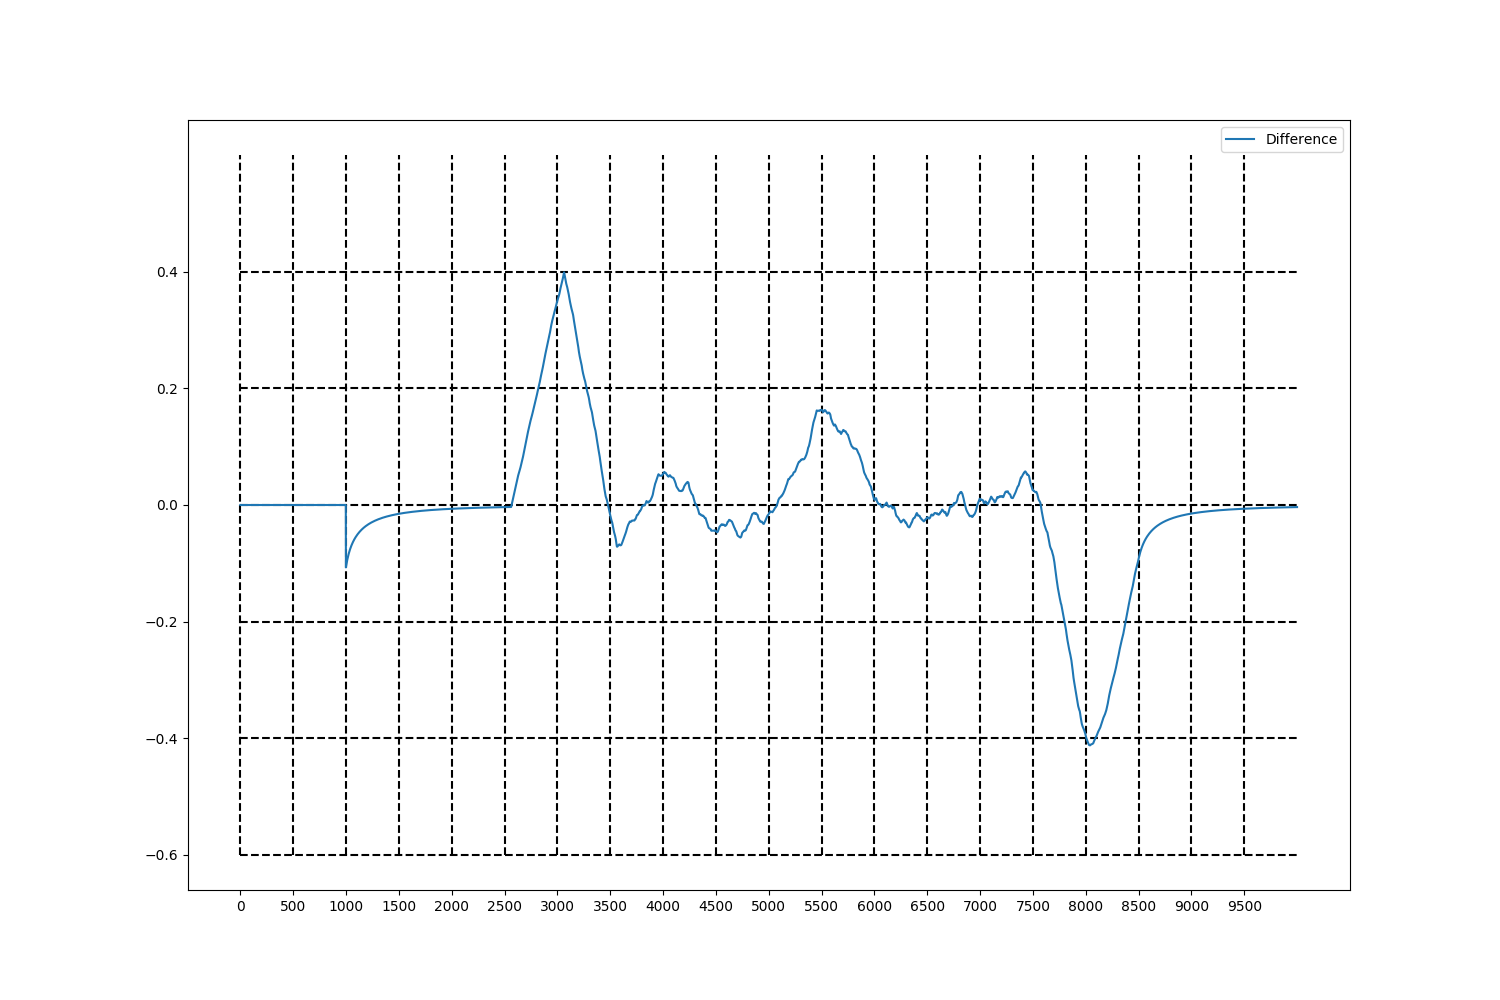
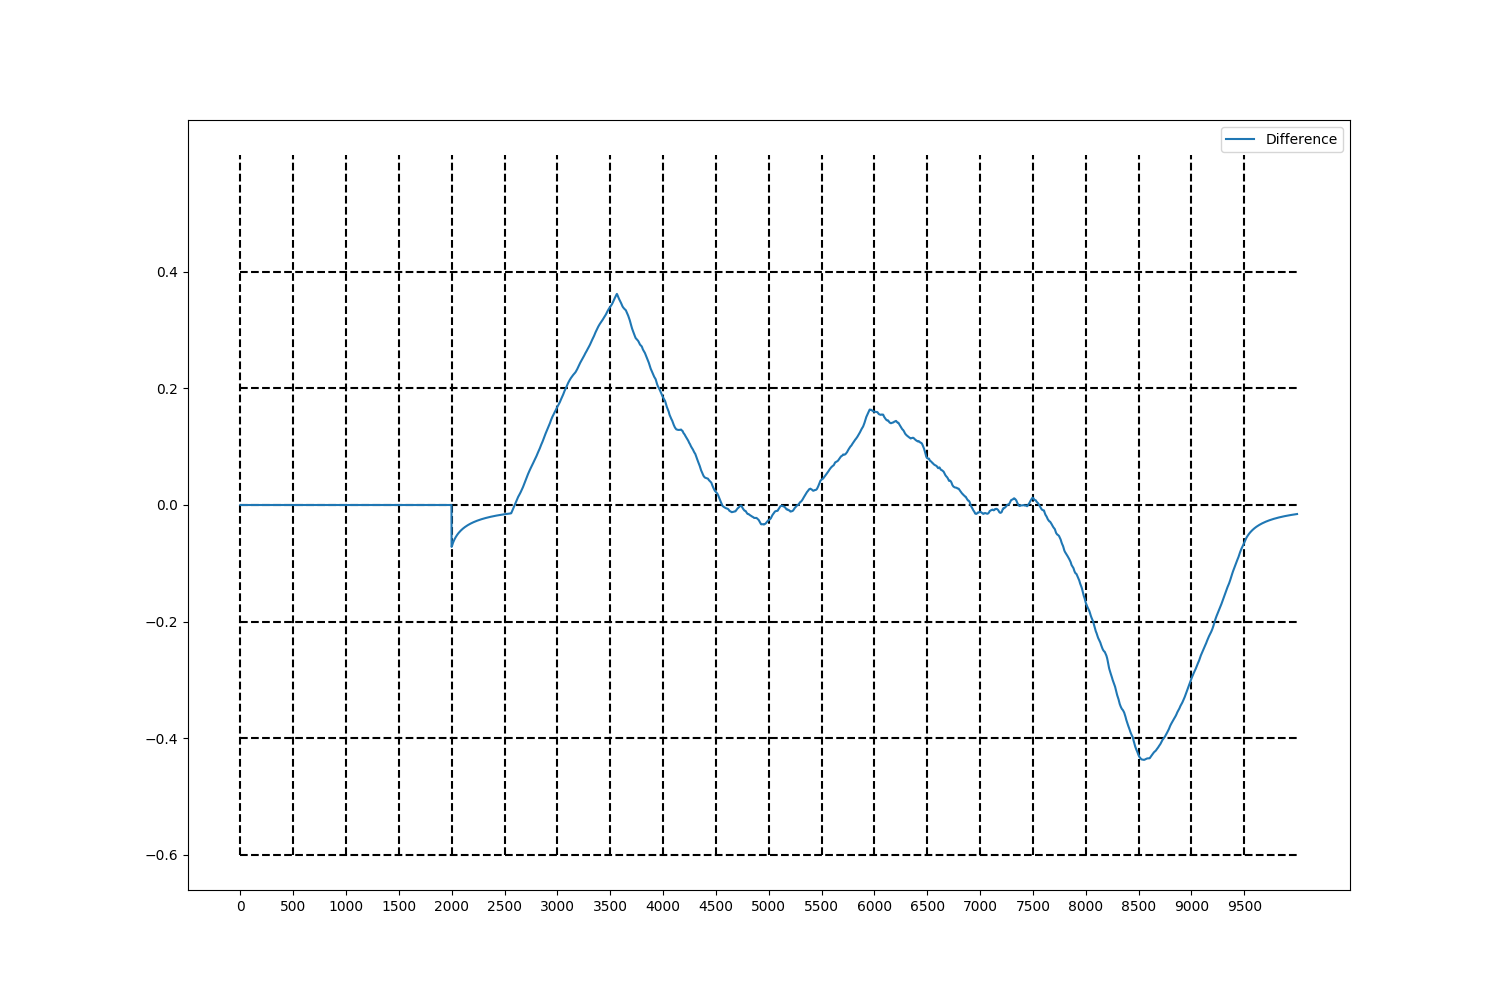
add

diff --git a/src/detect/EnvironmentChangeDetector.java b/src/detect/EnvironmentChangeDetector.java
@@ -394,6 +394,7 @@ public class EnvironmentChangeDetector {
     }
     
     public void detect8(List<ActionSet> sets) {
+        int WINDOW = 1000;
         this.traces = sets;
         int count = 1;
         List<double[]> recent_sgds_list = new ArrayList<>();
@@ -402,7 +403,7 @@ public class EnvironmentChangeDetector {
             len += rule.getPostConditions().size();
         }
         for (int i = 0; i < len; i++) {
-            recent_sgds_list.add(new double[500*2]);
+            recent_sgds_list.add(new double[WINDOW*2]);
         }
         List<String> lines = new ArrayList<>();
         List<Double> differences = new ArrayList<>();
@@ -419,12 +420,12 @@ public class EnvironmentChangeDetector {
                     double value_SGD = post.getValue();
                     //double value_GD = getValueOfNthPostCondition(rules_GD, index_);
                     recent_sgds_list.set(index_, replaceArray(recent_sgds_list.get(index_), value_SGD));
-                    double averageFirstHarf = calculateAverage(recent_sgds_list.get(index_), 0, 500);
-                    double averageSecondHarf = calculateAverage(recent_sgds_list.get(index_), 500, 500*2);
+                    double averageFirstHarf = calculateAverage(recent_sgds_list.get(index_), 0, WINDOW);
+                    double averageSecondHarf = calculateAverage(recent_sgds_list.get(index_), WINDOW, WINDOW*2);
                     if (rule.getPreConditionName().equals("arrive.m") && rule.getActionName().equals("move.e")
                             && post.getName().equals("arrive.e")) {
                         lines.add(count+", "+averageFirstHarf+", "+averageSecondHarf);
-                        if (count <= 500*2) {
+                        if (count <= WINDOW*2) {
                             differences.add(0.0);
                         } else {
                             differences.add(averageFirstHarf-averageSecondHarf);

diff --git a/src/model/hybrid/HybridModelUpdator.java b/src/model/hybrid/HybridModelUpdator.java
@@ -60,7 +60,8 @@ public class HybridModelUpdator {
             */
             if (shift_point == i) {
                 // GD learning
-                for (int j = 0; j < 1; j++) {
+                int NUMBER_OF_GD_LEARNING = 100;
+                for (int j = 0; j < NUMBER_OF_GD_LEARNING; j++) {
                     i++;
                     List<ActionSet> targetTraces = getLearningTargetTraces(i);
                     rules = GradientDescent.getUpdatedRules(rules, targetTraces);

diff --git a/python/ex4-2.py b/python/ex4-2.py
@@ -23,8 +23,8 @@ y7 = df['Hybrid(0.1)']
 y8 = df['Hybrid(0.5)']
 
 plt.figure(figsize=(15, 10), dpi=100)
-plt.plot(x, y1, label="SGD")
-plt.plot(x, y2, label="GD")
+plt.plot(x, y1, label="SGD(0.1)")
+plt.plot(x, y2, label="GD(0.1)")
 plt.plot(x, y3, label="Hybrid(0.001)")
 plt.plot(x, y4, label="Hybrid(0.005)")
 plt.plot(x, y5, label="Hybrid(0.01)")
